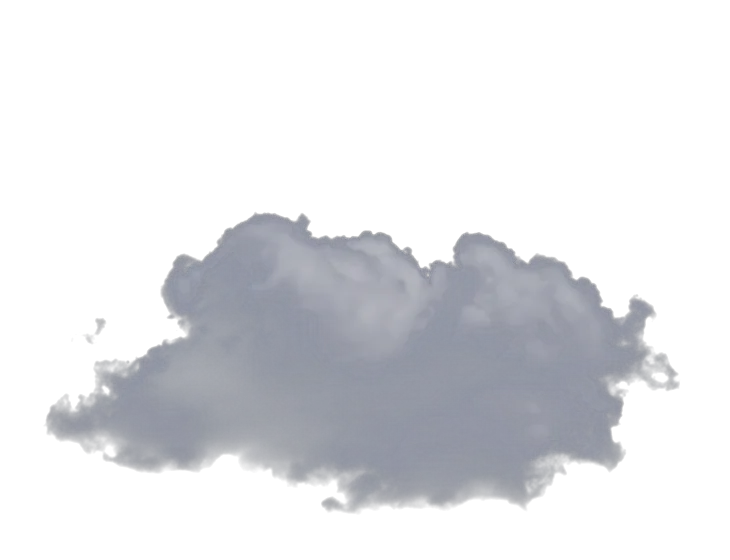
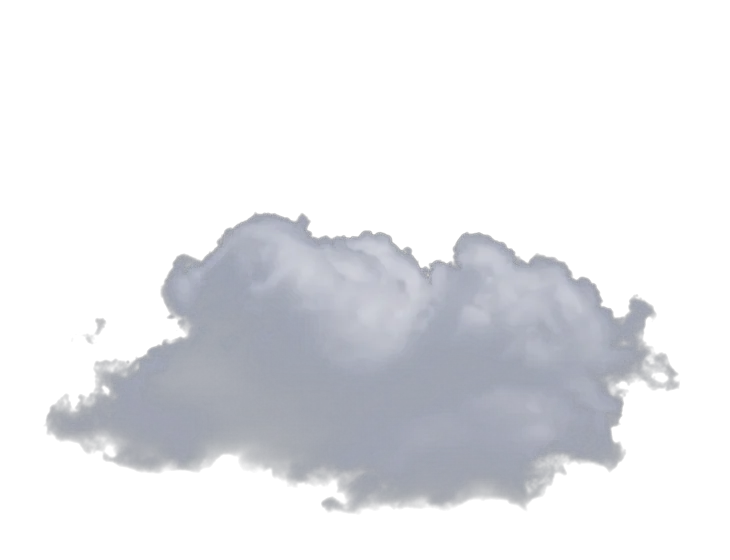
feat: brighten hero clouds to read in-front and smooth the intro parallax
The v4 clouds were toned too dark and too transparent (front 0.46), so over
the white CINEHEIGHT they read as faint haze behind the title. Brighten the
front-cloud assets (modulate 0.9 to 1.0, keeping the soft shadow underside
that registers over the letters) and raise layer opacity (front 0.46 to 0.68
and 0.42 to 0.64, traveller 0.24 to 0.40), positioned to cross the lower
third of the letters, so bright clouds clearly pass in front while staying
small and restrained (~80% black negative space).

Replace the staged master-label timeline (which snapped the title with a
0.08-duration -26vh clear-out) with one smooth continuous parallax pass: all
position tweens ease:none over long overlapping windows, per-layer travel
distances for real depth (traveller -48vh, front clouds -40vh, title -30vh,
back haze -8vh), the title rising and fading gradually as the statement
crossfades in. Scrub 1.05; navbar reveal synced to ~0.66.

Browser-tested at 8 progress points x 7 viewports plus reduced motion:
clouds bright and in-front, smooth parallax handoff with no snap, clean
reverse, no console errors, no overflow.

diff --git a/components/hero/HeroIntroSequence.tsx b/components/hero/HeroIntroSequence.tsx
@@ -151,64 +151,58 @@ export default function HeroIntroSequence() {
 
       const vh = (n: number) => () => (window.innerHeight * n) / 100
 
-      // Timeline duration is normalised to 1.0, so a label/position value is
-      // literally the scroll fraction it fires at (scrub maps scroll 0→1 to
-      // timeline 0→1). All positions below are those fractions.
+      // ONE smooth, continuous, parallax-differentiated pass. Every position
+      // tween runs `ease:'none'` over a LONG, OVERLAPPING window so the whole
+      // hero reads as a single scroll-linked camera rise through the cloud
+      // layer into the statement — no short "snap" tweens, no staged jumps.
+      // Timeline duration is normalised to 1.0 → a position value is the scroll
+      // fraction it fires at. Depth (parallax) = per-layer travel distance:
+      // traveller (closest) moves most, then front clouds, then title, then the
+      // background haze (slowest). Opacity crossfades gently, always AFTER the
+      // layer has begun moving.
       const tl = gsap.timeline({
         defaults: { ease: 'none' },
         scrollTrigger: {
           trigger: rootRef.current,
           start: 'top top',
           end: 'bottom bottom',
-          scrub: 1.0,
+          scrub: 1.05,
           invalidateOnRefresh: true,
           onUpdate: (st) => setHeroProgress(st.progress),
         },
       })
 
-      tl.addLabel('opening', 0)
-        .addLabel('depthStart', 0.16)
-        .addLabel('heroExit', 0.42)
-        .addLabel('statementApproach', 0.52)
-        .addLabel('statementReveal', 0.62)
-        .addLabel('navbarReveal', 0.68)
-        .addLabel('introSettled', 0.84)
+      // Helper: a tween placed at position `from` that lasts until `to`
+      // (positions/durations are scroll fractions of the 0→1 timeline).
+      const spanDur = (from: number, to: number) => ({ duration: to - from })
 
-      // ---- Clouds: begin lifting at depthStart; foreground faster than back.
-      // Movement first — opacity only reduces AFTER the clouds have moved.
-      tl.fromTo(fl, { y: 0 }, { y: vh(-18), duration: 0.68 }, 'depthStart')
-        .fromTo(fr, { y: 0 }, { y: vh(-20), duration: 0.68 }, 'depthStart')
-        .fromTo(trav, { y: 0 }, { y: vh(-26), duration: 0.6 }, 'depthStart')
-        .fromTo(back, { y: 0 }, { y: vh(-7), duration: 0.74 }, 'depthStart')
-        // foreground clouds settle to faint upper-edge residuals after they rise
-        .to([...fl, ...fr], { autoAlpha: 0.1, duration: 0.14 }, 0.72)
-        .to(trav, { autoAlpha: 0, duration: 0.16 }, 0.58)
-        // background haze stays visible longest, then dissolves
-        .to(back, { autoAlpha: 0.35, duration: 0.24 }, 0.7)
+      // ---- Parallax rise (all start together at 0.12, different distances) ----
+      const rise = 0.12
+      tl.fromTo(trav, { y: 0 }, { y: vh(-48), ...spanDur(rise, 0.85) }, rise) // fastest
+        .fromTo(fl, { y: 0 }, { y: vh(-40), ...spanDur(rise, 0.9) }, rise)
+        .fromTo(fr, { y: 0 }, { y: vh(-42), ...spanDur(rise, 0.9) }, rise)
+        .fromTo(title, { y: 0, scale: 1 }, { y: vh(-30), scale: 1.06, ...spanDur(rise, 0.9) }, rise) // medium
+        .fromTo(back, { y: 0 }, { y: vh(-8), ...spanDur(rise, 0.96) }, rise) // slowest
 
-      // ---- Title: slow rise (depthStart→heroExit); at ~0.60 it is at ~0.28
-      // opacity, then CLEARS UPWARD hard and fades to 0 by ~0.70 so it has
-      // visibly departed before the statement reveals — no competition.
-      tl.fromTo(title, { y: 0, scale: 1 }, { y: vh(-4), scale: 1.03, duration: 0.26 }, 'depthStart')
-        .to(title, { y: vh(-10), scale: 1.05, duration: 0.18 }, 'heroExit')
-        .to(title, { autoAlpha: 0.28, duration: 0.18 }, 'heroExit')
-        .to(title, { y: vh(-26), autoAlpha: 0, duration: 0.08 }, 0.6)
+      // ---- Opacity crossfades (gentle, gradual — no abrupt fades) ----
+      tl.to(trav, { autoAlpha: 0, ...spanDur(0.34, 0.56) }, 0.34)
+        .to(title, { autoAlpha: 0, ...spanDur(0.44, 0.76) }, 0.44) // title fades slowly as it rises
+        .to([...fl, ...fr], { autoAlpha: 0.08, ...spanDur(0.6, 0.84) }, 0.6) // become faint upper remnants
+        .to(back, { autoAlpha: 0.4, ...spanDur(0.7, 0.92) }, 0.7) // haze lingers, dissolves last
 
       // ---- #0089FF transition illumination (≤0.10) bridging the two states.
-      tl.fromTo(blue, { autoAlpha: 0 }, { autoAlpha: 0.1, duration: 0.16 }, 0.5).to(blue, { autoAlpha: 0.05, duration: 0.14 }, 'introSettled')
+      tl.fromTo(blue, { autoAlpha: 0 }, { autoAlpha: 0.1, ...spanDur(0.5, 0.7) }, 0.5)
+        .to(blue, { autoAlpha: 0.05, ...spanDur(0.84, 1.0) }, 0.84)
 
-      // ---- Statement: approaches from below while the title is still up and
-      // dominant; reveals only after the title has visibly departed.
-      tl.fromTo(statement, { y: vh(34), autoAlpha: 0 }, { y: vh(6), autoAlpha: 0.5, duration: 0.1 }, 'statementApproach')
-        .to(statement, { y: 0, autoAlpha: 1, duration: 0.16 }, 'statementReveal')
-        .fromTo(stLines[0], { yPercent: 112 }, { yPercent: 0, duration: 0.1 }, 'statementReveal')
-        .fromTo(stLines[1], { yPercent: 112 }, { yPercent: 0, duration: 0.1 }, 0.665)
-        .fromTo(stCopy, { autoAlpha: 0, y: vh(2.4) }, { autoAlpha: 1, y: 0, duration: 0.1 }, 0.72)
+      // ---- Statement rises from below and crossfades in as the title thins.
+      tl.fromTo(statement, { y: vh(42), autoAlpha: 0 }, { y: 0, autoAlpha: 1, ...spanDur(0.44, 0.86) }, 0.44)
+        .fromTo(stLines[0], { yPercent: 112 }, { yPercent: 0, ...spanDur(0.58, 0.74) }, 0.58)
+        .fromTo(stLines[1], { yPercent: 112 }, { yPercent: 0, ...spanDur(0.62, 0.78) }, 0.62)
+        .fromTo(stCopy, { autoAlpha: 0, y: vh(2.4) }, { autoAlpha: 1, y: 0, ...spanDur(0.7, 0.86) }, 0.7)
 
-      // ---- 0.84→1.0: hold readable + a barely-there upward drift so there is
-      // no dead pause and the lower edge is ready for the showreel entrance.
-      tl.to(statement, { y: vh(-2), duration: 0.16 }, 'introSettled')
-        .to(back, { autoAlpha: 0.18, duration: 0.16 }, 'introSettled')
+      // ---- 0.86→1.0: a barely-there continued upward drift so the lower edge
+      // is ready for the showreel entrance — no dead pause.
+      tl.to(statement, { y: vh(-2), ...spanDur(0.86, 1.0) }, 0.86)
 
       return () => tl.scrollTrigger?.kill()
     }, rootRef)
@@ -262,9 +256,9 @@ export default function HeroIntroSequence() {
           data-layer="front-left"
           aria-hidden="true"
           className="absolute z-[3] will-change-transform"
-          style={{ left: mobile ? '-10vw' : '-14vw', width: mobile ? '90vw' : '54vw', top: mobile ? '52%' : '47%', height: mobile ? '11vh' : '11vh', opacity: mobile ? 0.42 : 0.46 }}
+          style={{ left: mobile ? '-10vw' : '-14vw', width: mobile ? '90vw' : '52vw', top: mobile ? '52%' : '48%', height: mobile ? '12vh' : '13vh', opacity: mobile ? 0.62 : 0.68 }}
         >
-          <Marquee src={ASSETS.frontLeft} periodVw={mobile ? 90 : 54} cloudWidthVw={mobile ? 46 : 21} dur={78} phase={0.18} />
+          <Marquee src={ASSETS.frontLeft} periodVw={mobile ? 90 : 52} cloudWidthVw={mobile ? 46 : 21} dur={78} phase={0.18} />
         </div>
 
         {/* L4 — front-right natural cloud (z-3), over G-H-T. Different form/height
@@ -274,9 +268,9 @@ export default function HeroIntroSequence() {
             data-layer="front-right"
             aria-hidden="true"
             className="absolute z-[3] will-change-transform"
-            style={{ left: '60vw', width: '56vw', top: '50%', height: '12.5vh', opacity: 0.42 }}
+            style={{ left: '62vw', width: '52vw', top: '49.5%', height: '13.5vh', opacity: 0.64 }}
           >
-            <Marquee src={ASSETS.frontRight} periodVw={56} cloudWidthVw={23} dur={90} phase={0.5} reverse />
+            <Marquee src={ASSETS.frontRight} periodVw={52} cloudWidthVw={23} dur={90} phase={0.5} reverse />
           </div>
         )}
 
@@ -285,7 +279,7 @@ export default function HeroIntroSequence() {
           data-layer="traveller"
           aria-hidden="true"
           className="absolute z-[4] will-change-transform"
-          style={{ top: mobile ? '45%' : '43%', left: 0, width: '100%', height: mobile ? '9vh' : '10vh', opacity: mobile ? 0.2 : 0.24 }}
+          style={{ top: mobile ? '46%' : '44%', left: 0, width: '100%', height: mobile ? '10vh' : '11vh', opacity: mobile ? 0.34 : 0.4 }}
         >
           <div data-traverse data-dur={mobile ? 64 : 72} data-phase={0.42} className="absolute top-0 h-full will-change-transform" style={{ width: mobile ? '26vw' : '11vw' }}>
             {/* eslint-disable-next-line @next/next/no-img-element */}

diff --git a/components/Navbar.tsx b/components/Navbar.tsx
@@ -27,7 +27,7 @@ export default function Navbar() {
 
   useEffect(() => {
     return subscribeHeroProgress((p) => {
-      const next = visibleRef.current ? p > 0.6 : p > 0.68
+      const next = visibleRef.current ? p > 0.58 : p > 0.66
       if (next !== visibleRef.current) {
         visibleRef.current = next
         setVisible(next)

diff --git a/docs/HERO-CLOUD-SYSTEM.md b/docs/HERO-CLOUD-SYSTEM.md
@@ -17,37 +17,47 @@
 > (brightness 0.66–0.9, saturation 0.5–0.6 → neutral, not blue, no blown whites).
 > Composited normally over #020306 — no screen-blend, no radial masks.
 >
+> ### Clouds read IN FRONT (not behind)
+> Front clouds are reprocessed **brighter** (`modulate brightness 1.0`, keeping the
+> soft shadow underside via the gentle alpha curve — that shadow is what registers
+> over the white letters) and set at higher layer opacity, so a bright cloud clearly
+> crosses the lower third of the letters (full brightness in the black gaps + soft
+> shadow over the letter = "passing in front"). Still small/restrained (~80% black).
+>
 > ### Live layers (`HeroIntroSequence.tsx`)
 > | z | Layer | Asset | Opening placement (desktop) | Opacity |
 > |---|---|---|---|---|
 > | 0 | back haze | cloud-back-soft | left 20% w 60%, top 50%, h 9vh | 0.12 |
 > | 1 | title | Bebas Neue ~72vw | centred, −1vh | 1 |
-> | 3 | front-left | cloud-front-left | left −14vw w 54vw, top 47%, h 11vh | 0.46 |
-> | 3 | front-right | cloud-front-right (distinct cloud) | left 60vw w 56vw, top 50%, h 12.5vh | 0.42 |
-> | 4 | traveller | cloud-traveller | full width, top 43%, w 11vw | 0.24 |
+> | 3 | front-left | cloud-front-left (bright) | left −14vw w 52vw, top 48%, h 13vh | **0.68** |
+> | 3 | front-right | cloud-front-right (bright, distinct) | left 62vw w 52vw, top 49.5%, h 13.5vh | **0.64** |
+> | 4 | traveller | cloud-traveller (bright) | full width, top 44%, w 11vw | **0.40** |
 >
 > Drift: seamless two-copy marquees for back/front clouds (no yoyo/snap), one
 > offscreen traversal for the traveller — durations 110 / 78 / 90 / 72 s.
 >
-> ### Master timeline — named labels (one shared progress, `ease: 'none'`, scrub 1.0)
-> `opening 0.00 · depthStart 0.16 · heroExit 0.42 · statementApproach 0.52 ·
-> statementReveal 0.62 · navbarReveal 0.68 · introSettled 0.84`. Every element
-> is tied to these labels (no per-element guesses). Beats: 0–0.16 hold · 0.16–0.42
-> clouds lift, title rises slowly to −4vh scale 1.03 · 0.42–0.60 title → −10vh
-> scale 1.05 opacity → 0.28, foreground clouds rise faster (−18/−20vh) · **0.60
-> crossover** title 0.28 · 0.60–0.68 title CLEARS to −26vh opacity 0 (visibly
-> departed before the statement reveals) · 0.62 statement line-1 clip reveal,
-> 0.665 line-2, 0.72 support copy · 0.68 navbar reveals (Navbar subscribes to
-> `heroProgress`, threshold 0.68 == the `navbarReveal` label) · 0.84 settled,
-> statement stable, faint cloud remnants at upper edges · 0.84–1.0 barely-there
-> upward drift so the lower edge is ready for the showreel, no dead pause.
-> Reverse scroll restores the opening cleanly.
+> ### Smooth parallax timeline (one continuous pass, `ease: 'none'`, scrub 1.05)
+> The staged "master-label / title clear-out" version was replaced: it snapped the
+> title (a 0.08-duration −26vh jump) and read as staged, not smooth. Now every
+> position tween runs `ease:'none'` over a **long, overlapping** window so the hero
+> is one scroll-linked camera rise through the cloud layer into the statement — no
+> snaps. **Parallax = per-layer travel distance** (all start at 0.12):
+> traveller −48vh (closest, fastest) · front clouds −40/−42vh · title −30vh
+> scale→1.06 (medium) · back haze −8vh (slowest, lingers). Opacity crossfades
+> gently, always after the layer starts moving: traveller fades [0.34→0.56];
+> **title fades gradually [0.44→0.76]** as it rises (no snap); front clouds →0.08
+> upper remnants [0.6→0.84]; back haze →0.4 then dissolves last [0.7→0.92].
+> Statement rises `y 42vh→0` [0.44→0.86] with two staggered line clip-reveals
+> [0.58/0.62→~0.78] and support copy [0.7→0.86]; #0089FF transition light
+> 0→0.10 [0.5→0.7]. Navbar reveals ~**0.66** (Navbar subscribes to `heroProgress`,
+> hysteresis 0.66/0.58). 0.86→1.0: a barely-there upward drift so the lower edge is
+> ready for the showreel. Reverse scroll restores the opening cleanly.
 >
 > ### Title / statement crossover
-> Title departs (up + fade) and is gone by ~0.68; the statement reveals from 0.62.
-> There is only a brief intended coexistence (title subordinate, moving away) —
-> never equal competition. #0089FF appears only as the faint title-base light,
-> the ≤0.10 transition illumination, `BRANDS.`, and navbar hover/focus/CTA.
+> Title rises and fades **gradually** across the whole scroll; the statement
+> crossfades in from below as the title thins — a continuous parallax handoff, not
+> a staged swap. #0089FF appears only as the faint title-base light, the ≤0.10
+> transition illumination, `BRANDS.`, and navbar hover/focus/CTA.
 >
 > ### Mobile / reduced motion
 > Mobile: back haze + ONE front cloud (left, widened) + traveller; no right cloud,
